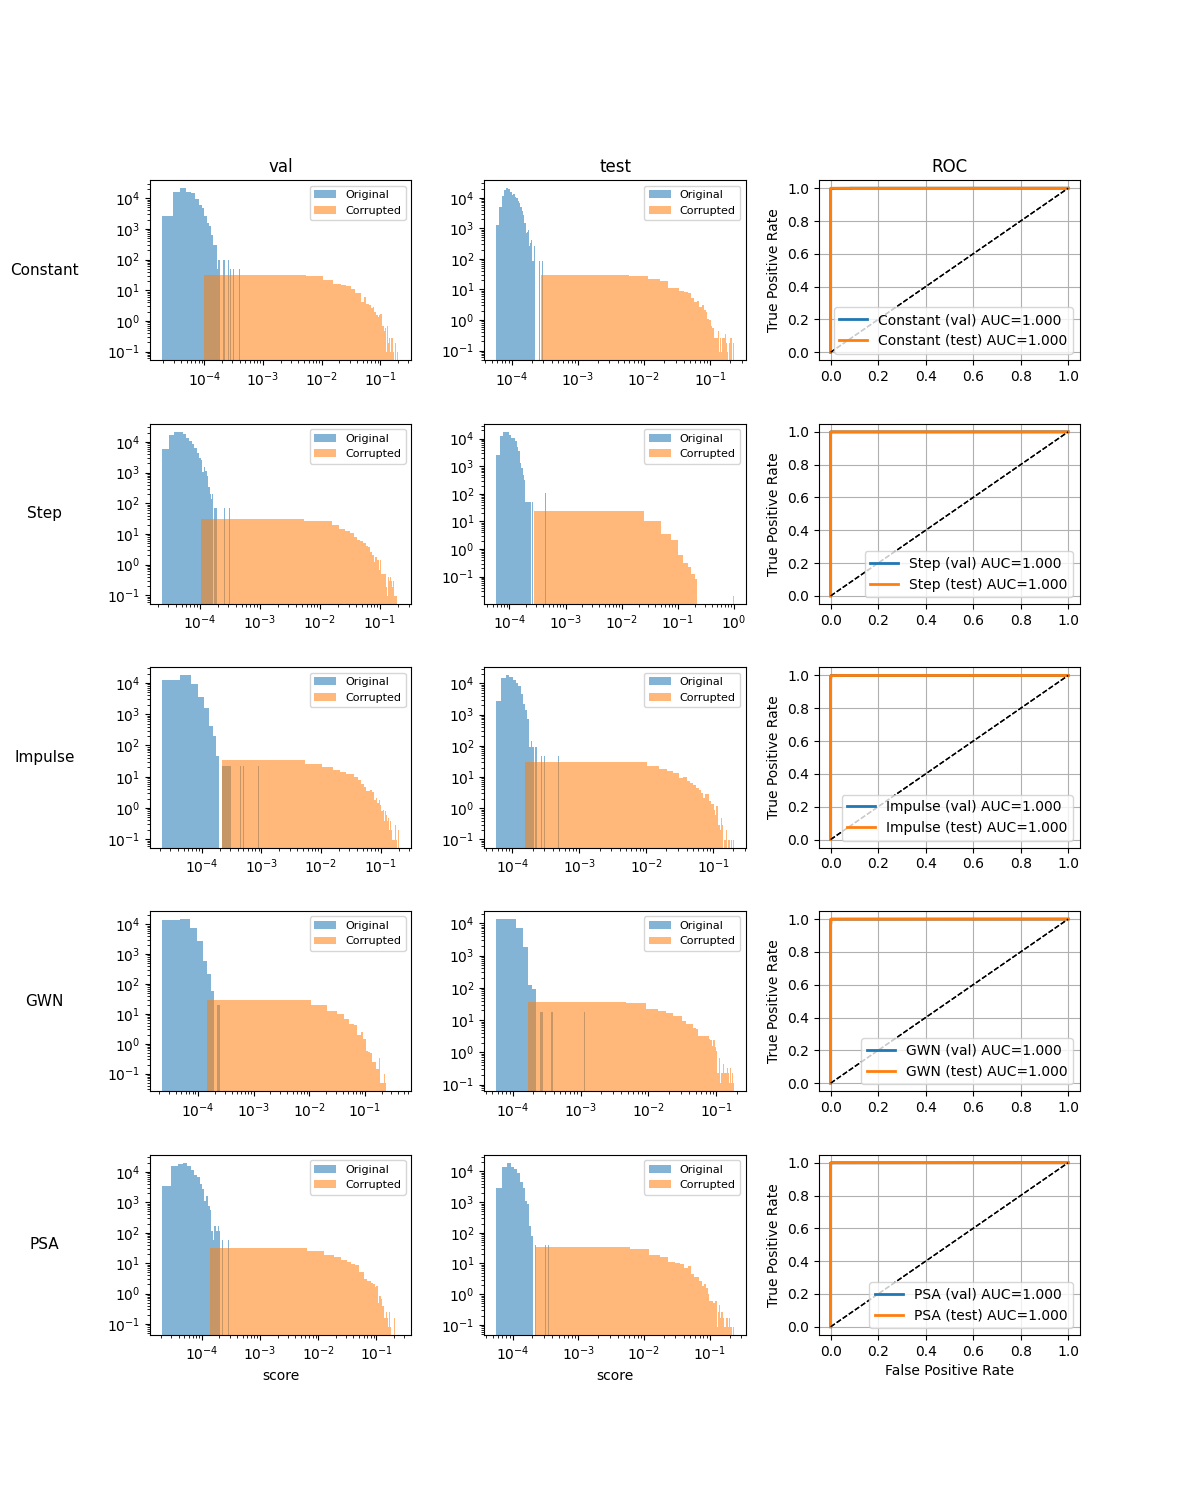
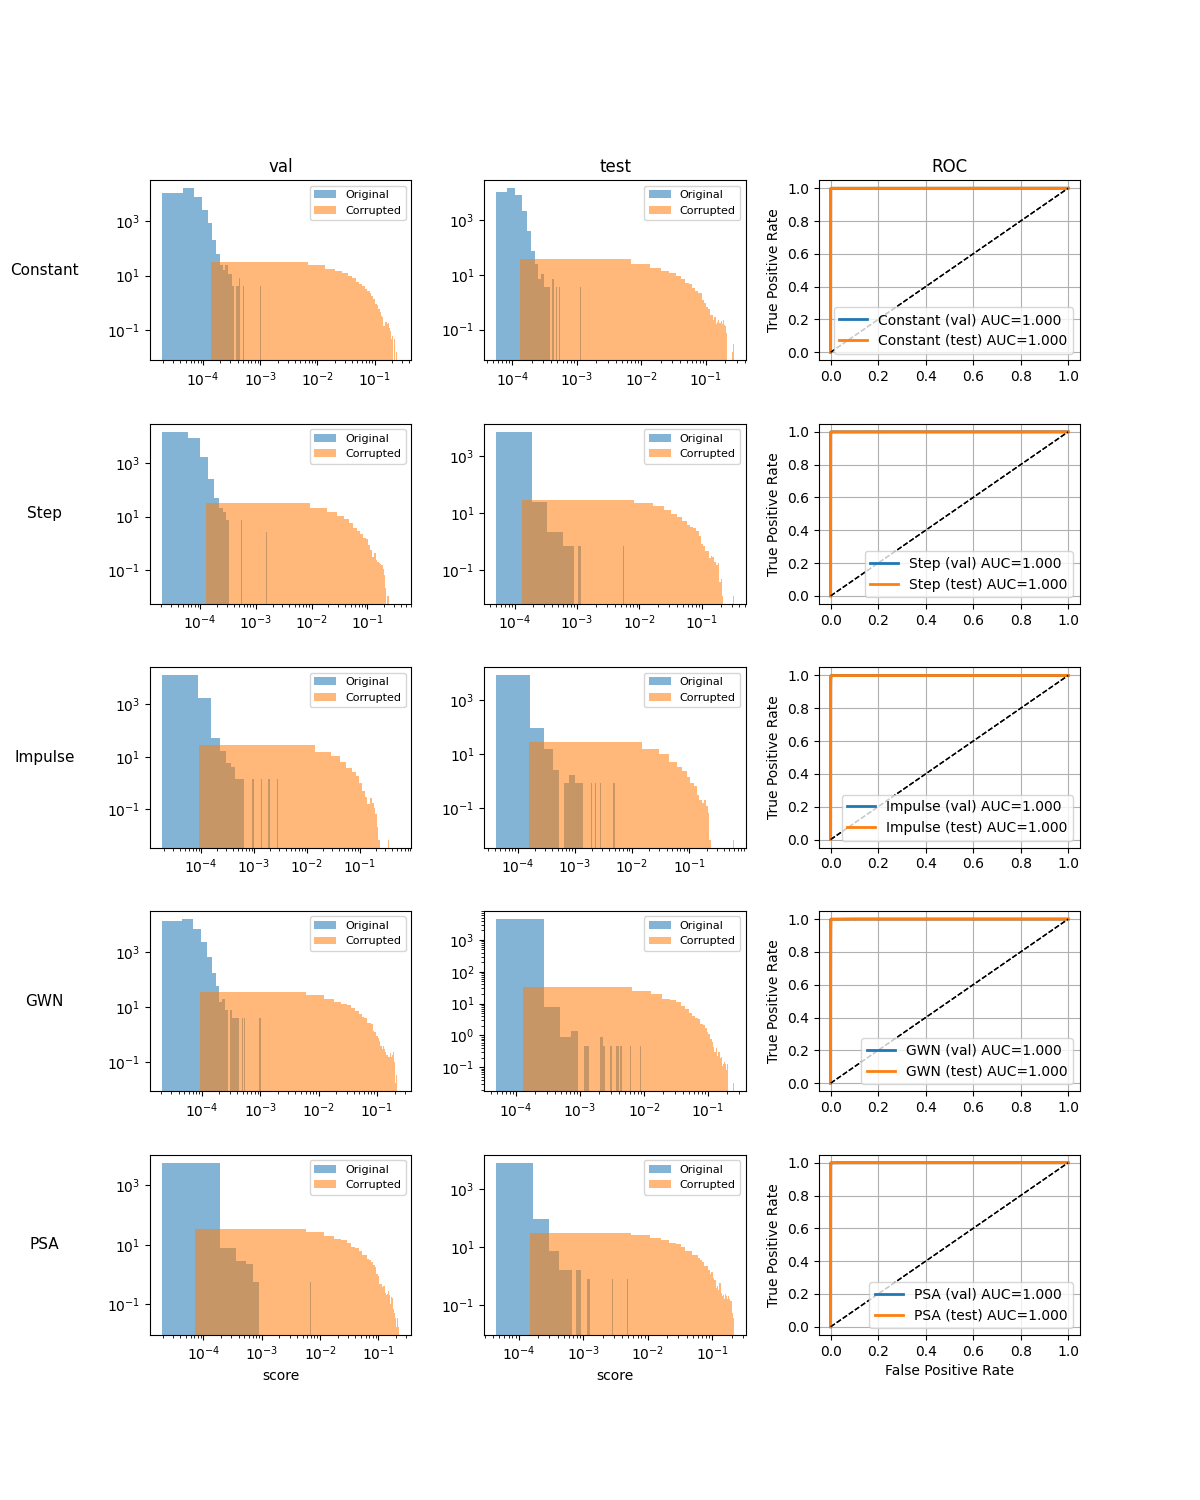
risultati di m

diff --git a/src/sentinel/xp_test.py b/src/sentinel/xp_test.py
@@ -85,6 +85,10 @@ if __name__ == "__main__":
 
         scores = {key: loss(dss['data'], dss['output']).mean(dim=(2,3)) for key, dss in s._dss.items()}
 
+        plt.plot(scores['test'])
+        plt.savefig('score_timeline.png')
+        
+
         for key, score in scores.items(): print(f'{key} {score.mean()}')
 
         print('---------------\n mutliple channel analysis \n-----------------')
@@ -134,7 +138,7 @@ if __name__ == "__main__":
                 axs[j,2].legend()
                 axs[j,2].grid(True)
 
-            fig.savefig(f'AUC-c-{config}-{ci}.png')
+            fig.savefig(f'temp_plots/AUC-c-{config}-{ci}.png')
         
         print('---------------\n RW analysis \n-----------------')
 
@@ -145,8 +149,6 @@ if __name__ == "__main__":
 
             if p == 'val':
                 
-                
-
                 fig, axs = plt.subplots(n_corr*4, 3, figsize=(12, 3 * n_corr*4), squeeze=False)
                 plt.subplots_adjust(wspace=0.28, hspace=0.35)
 
@@ -189,7 +191,7 @@ if __name__ == "__main__":
 
                     count += 1
 
-            fig.savefig(f'AUC-c-RW-{ci}-RW-wise.png')
+            fig.savefig(f'temp_plots/AUC-c-RW-{ci}-RW-wise.png')
 
         print('---------------\n single channel analysis \n-----------------')
 
@@ -213,7 +215,6 @@ if __name__ == "__main__":
                             
                     idx = torch.argwhere((s._dss[key]['corruption']==j) & (s._dss[key]['channel']==k)).squeeze(-1).tolist()
                     score = torch.cat((scores[key][idx], scores[p][idx])).squeeze(dim=1)
-                    print(score.shape)
                     results = torch.cat((torch.ones(len(idx)), torch.zeros(len(scores[p][idx]))))
                     
                     axs[count,i].hist(scores[p][idx], bins=40, density=True, alpha=0.55, label='Original')
@@ -243,7 +244,7 @@ if __name__ == "__main__":
 
                     count += 1
 
-            fig.savefig(f'AUC-c-single-channel-{ci}-single-channel-wise.png')
+            fig.savefig(f'temp_plots/AUC-c-single-channel-{ci}-single-channel-wise.png')
 
 
         

diff --git a/src/sentinel/xp_peephole.py b/src/sentinel/xp_peephole.py
@@ -117,7 +117,14 @@ if __name__ == "__main__":
                 'n_classes': len(corruptions.keys()),
                 'class_names': corruptions.keys()
                 },
-            'RW': {
+            'RW_corruption': {
+                'loaders': [f'val-c-RW-{ci}', f'test-c-RW-{ci}'],
+                'empp_fit_key': f'val-c-RW-{ci}', 
+                'label_key': 'corruption',
+                'n_classes': len(corruptions.keys()),
+                'class_names': corruptions.keys() 
+                },
+            'RW_RW': {
                 'loaders': [f'val-c-RW-{ci}', f'test-c-RW-{ci}'],
                 'empp_fit_key': f'val-c-RW-{ci}', 
                 'label_key': 'RW',
@@ -161,7 +168,7 @@ if __name__ == "__main__":
                 for peep_layer in target_layers:
                     drillers[peep_layer] = tGMM(
                             path = drill_path,
-                            name = drill_name+'.'+peep_layer+'.'+test_name,
+                            name = drill_name+'.'+peep_layer+'.'+test_name+'.'+emb_size+'.'+ci,
                             nl_classifier = n_cluster,
                             nl_model = tests[test_name]['n_classes'],
                             n_features = feature_sizes[peep_layer],
@@ -171,7 +178,7 @@ if __name__ == "__main__":
 
                 peepholes = Peepholes(
                         path = phs_path,
-                        name = phs_name+f'.{n_cluster}.{cv_dim}.{test_name}',
+                        name = phs_name+f'.{n_cluster}.{cv_dim}.{test_name}.{emb_size}.{ci}',
                         device = device
                         )
 

diff --git a/src/sentinel/xp_corruption.py b/src/sentinel/xp_corruption.py
@@ -55,6 +55,7 @@ if __name__ == "__main__":
     seq_len = 16
     kernel = [3, 3]
     lay3 = False   
+    n_samples = 50000
 
     #--------------------------------
     # Model
@@ -93,7 +94,7 @@ if __name__ == "__main__":
                 loaders = ['val', 'test'],
                 model = model,
                 corruptions = corruptions,
-                n_samples = 100,
+                n_samples = n_samples,
                 bs = bs,
                 mode = 'single',
                 suffix = ci,
@@ -104,7 +105,7 @@ if __name__ == "__main__":
                 loaders = ['val', 'test'],
                 model = model,
                 corruptions = corruptions,
-                n_samples = 100,
+                n_samples = n_samples,
                 bs = bs,
                 mode = 'all',
                 suffix = ci,
@@ -115,7 +116,7 @@ if __name__ == "__main__":
                 loaders = ['val', 'test'],
                 model = model,
                 corruptions = corruptions,
-                n_samples = 100,
+                n_samples = n_samples,
                 bs = bs,
                 mode = 'RW',
                 suffix = ci,
